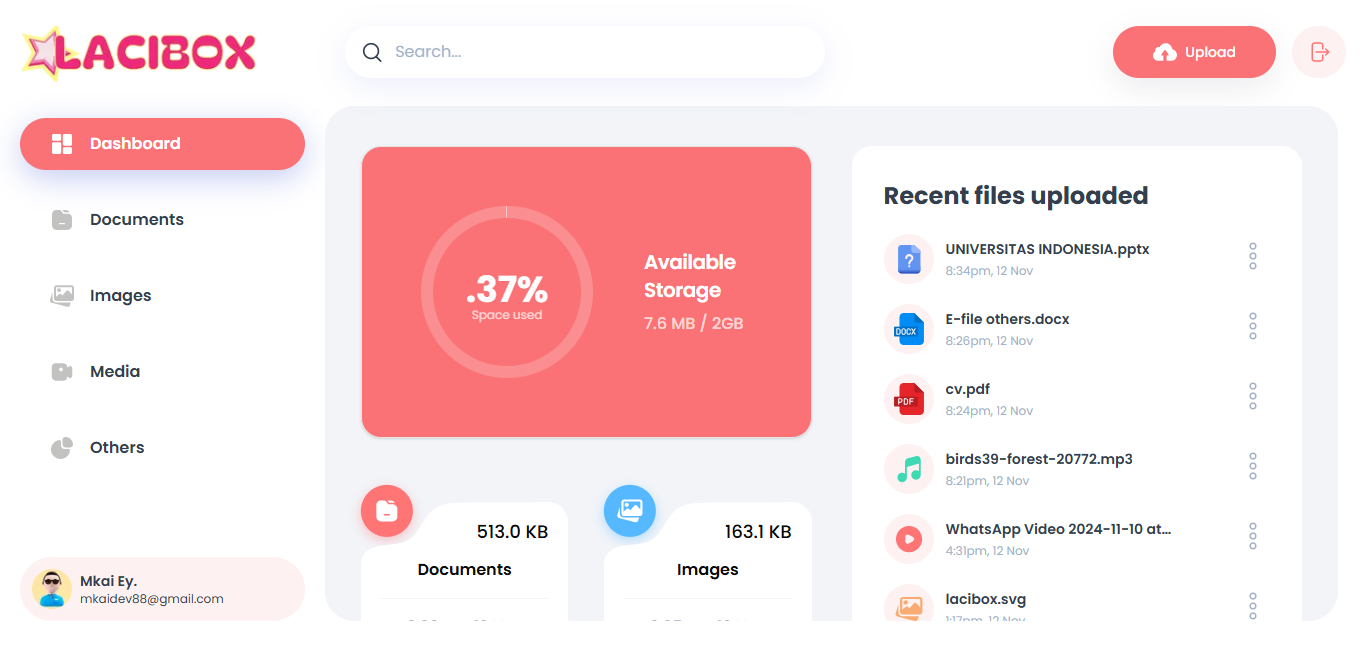
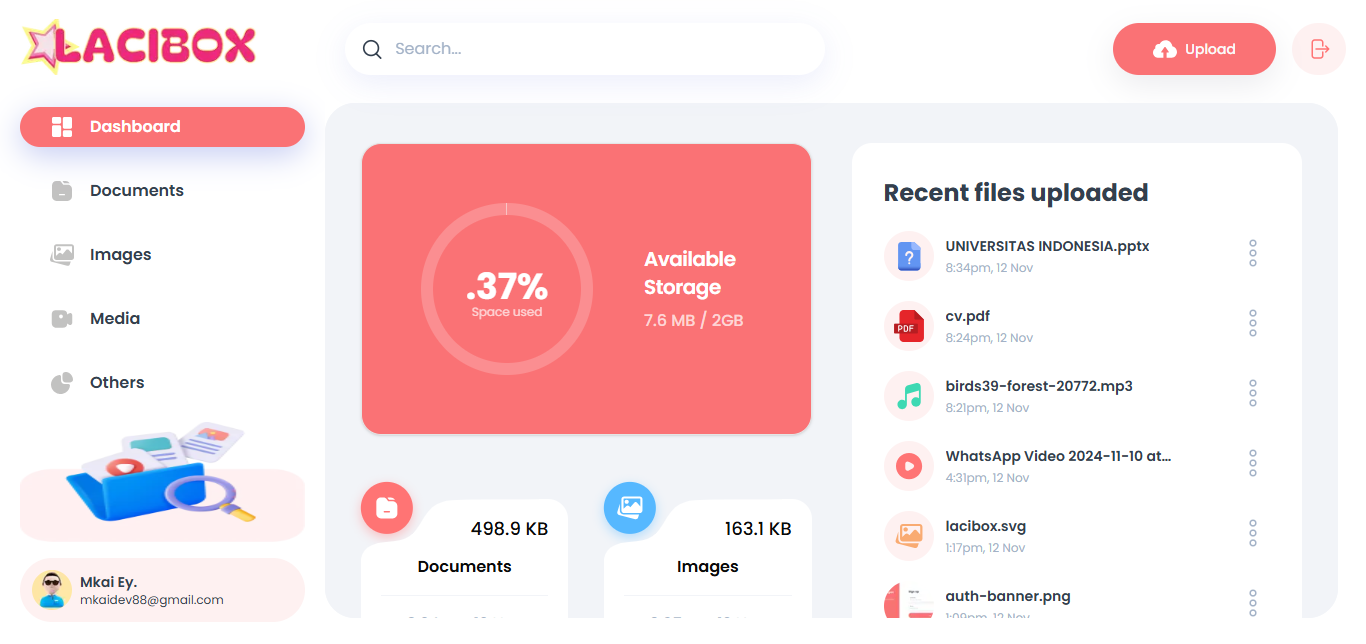
prepare for deployment

diff --git a/app/globals.css b/app/globals.css
@@ -416,13 +416,13 @@
 
   /* Sidebar */
   .sidebar {
-    @apply remove-scrollbar hidden h-screen w-[90px] flex-col overflow-auto px-5 py-7 sm:flex lg:w-[280px] xl:w-[325px] !important;
+    @apply remove-scrollbar hidden h-screen w-[90px] flex-col overflow-auto px-5 py-6 sm:flex lg:w-[280px] xl:w-[325px] !important;
   }
   .sidebar-nav {
-    @apply h5 mt-9 flex-1 gap-1 text-brand !important;
+    @apply h5 mt-8 flex-1 gap-1 text-brand !important;
   }
   .sidebar-nav-item {
-    @apply flex text-light-100 gap-4 rounded-xl lg:w-full justify-center lg:justify-start items-center h5 lg:px-[30px] h-[52px] lg:rounded-full !important;
+    @apply flex text-light-100 gap-4 rounded-xl lg:w-full justify-center lg:justify-start items-center h5 lg:px-[30px] h-[40px] lg:rounded-full !important;
   }
   .sidebar-user-info {
     @apply mt-4 flex items-center justify-center gap-2 rounded-full bg-brand/10 p-1 text-light-100 lg:justify-start lg:p-3 !important;

diff --git a/components/Sidebar.tsx b/components/Sidebar.tsx
@@ -61,6 +61,14 @@ const Sidebar = ({ fullName, avatar, email }: Props) => {
         </ul>
       </nav>
 
+      <Image
+        src="/assets/images/files-2.png"
+        alt="logo"
+        width={306}
+        height={68}
+        className="h-[120px] w-auto"
+      />
+
       <div className="sidebar-user-info">
         <Image
           src={avatar}
